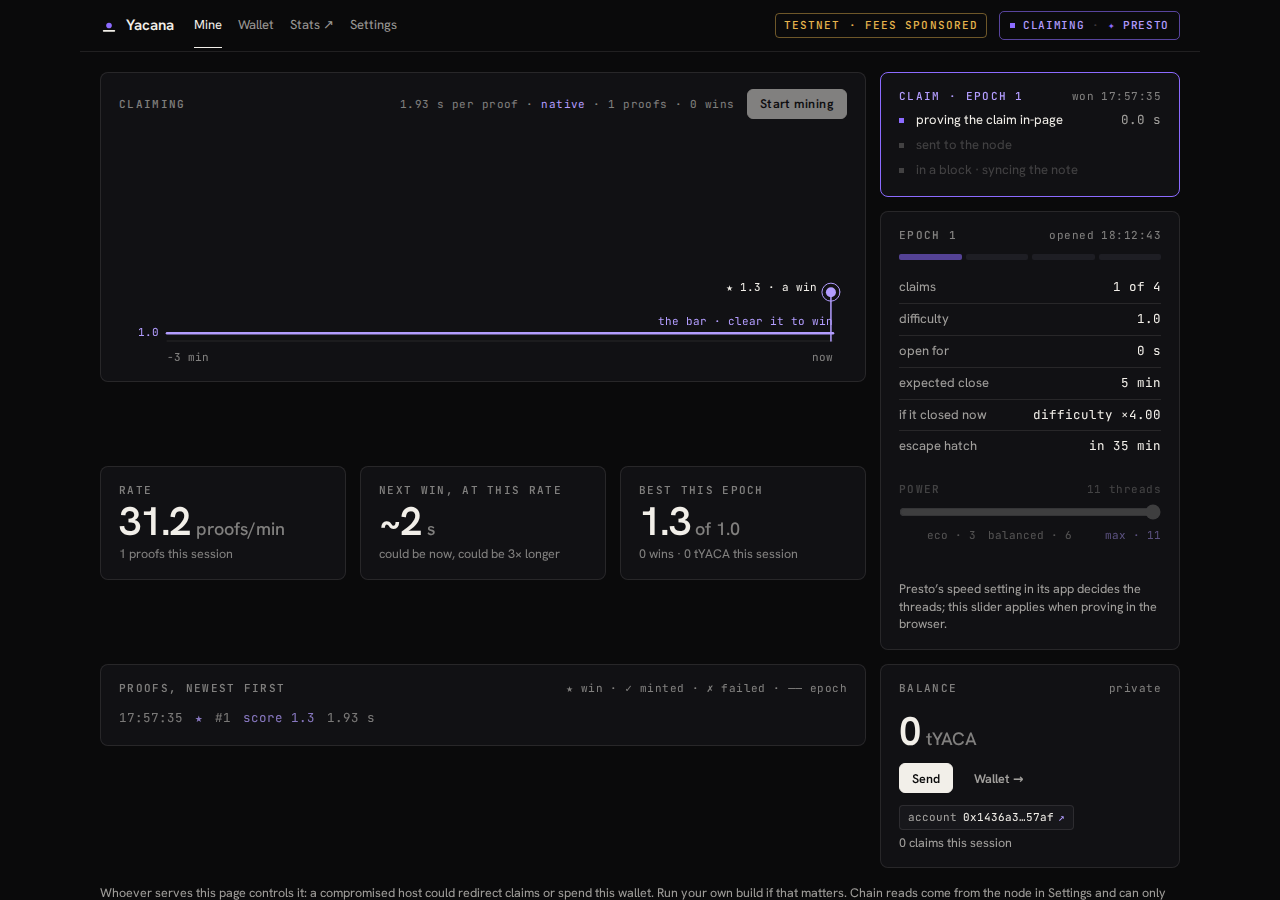
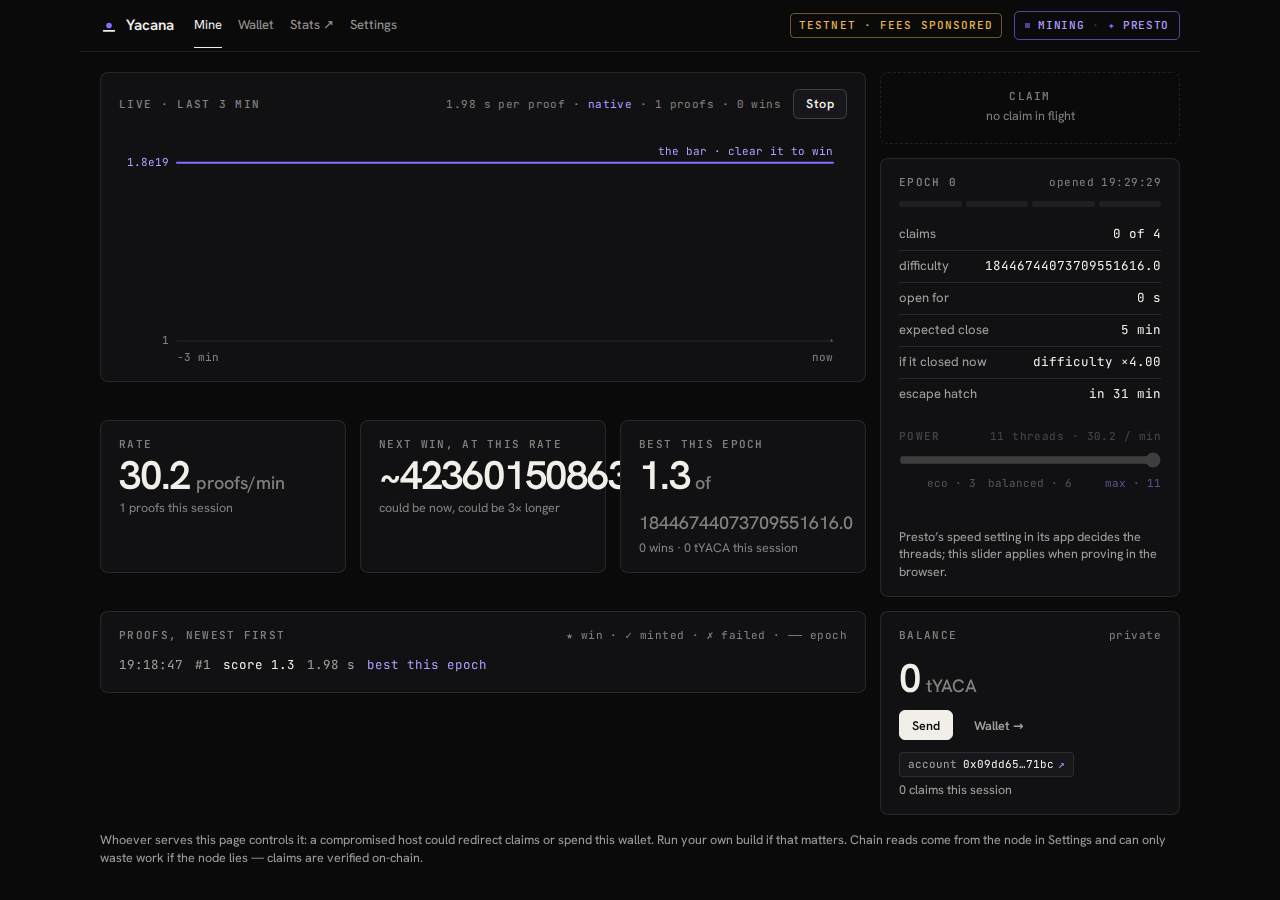
docs(presto-mine): the renders and the loop's log from the run at the head
The six 1280/1440 renders come from the green run at cf74cb0: the native state is now captured while
mining on the hard deployment, so it shows what the artboard shows rather than a claim in flight.
Phase 3's log gains that run's numbers and evidence; phase 4's carries the three codex rounds.

diff --git a/implementations-plan/presto-mine/lessons/phase-4.md b/implementations-plan/presto-mine/lessons/phase-4.md
@@ -84,3 +84,24 @@ suite releases by hand — the two Session behaviours above are what the control
 Codex accepted the omitted approval link and the config-resolution evidence, but was right that the plan
 overstated it: it now says the e2e port is dropped from the resolved config and from both realms' Vite
 definitions, which is what the test checks.
+
+### Round 3 — **approve** (2026-09-09 19:10 UTC), the loop converged
+
+> "Approve — no material correctness or security finding remains in this diff. The production-code review has
+> converged. Confidence: high."
+
+Codex re-derived the Start/Retry behaviour with its own controlled pending probes: a sticky Start forces the
+rebuild, an ordinary Start does not, and a Stop stops either caller from reconfiguring afterwards. It left two
+test notes, both applied in `cf74cb0`:
+
+- The cancellation test's fixed 20 ms waits did not establish that the probe had finished. The fake now announces
+  the request's arrival, so the Stop lands with the probe demonstrably out, and the assertion waits for the answer
+  to reach the atom `reprobePresto` continues from.
+- The gate's `fallback` case is synthetic for this app: under `fallback: 'none'` the SDK throws rather than
+  emitting that phase, and the row is cleared by the prover's transition instead. The comment says so; the branch
+  stays, since the helper is written against the SDK's phase vocabulary, not against one caller's configuration.
+
+Three rounds, which is the protocol's cap. The first two were substantial (ten and five findings, all verified
+before fixing); the third found nothing material, which is what convergence means here. Nothing was left
+unaddressed and nothing was deferred past the PR.
+

diff --git a/implementations-plan/presto-mine/lessons/phase-3.md b/implementations-plan/presto-mine/lessons/phase-3.md
@@ -46,3 +46,11 @@ Started 2026-09-09 after P2 (`e19afed`).
   the 4-core runner. Nothing on the Presto paths is involved (that page runs `?presto=off`; no probe, no Worker
   change on that path), and the same spec passed on the homelab in both local runs. Re-dispatched with the fix
   round's commit; if it recurs, it is a runner-speed allowance for that spec, tracked apart from this plan.
+- **Final local gate (homelab, 2026-09-09 19:27 UTC, `cf74cb0` — the head after both fix rounds)**: `bun run
+  e2e:agent -- bun run --cwd packages/web-miner test:e2e` — **19 passed in 16.2 min, exit 0**. The suite is 19 now
+  because the Presto spec split in two: the native state renders while mining on the hard deployment (11.8 s), and
+  the claim through Presto is its own spec (51.4 s) with the evidence scoped to itself. The billboard spec takes
+  the run's registry-claimed closed port (19.0 s); the update row and Retry, 1.8 s. The run's own server log
+  records six finished UltraHonk proofs (`ok=true`), no `versions` directory appeared, and no `presto-server`
+  survived teardown. The six renders in `renders/` are from this run.
+
